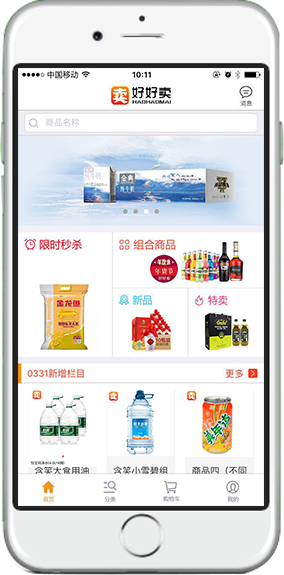
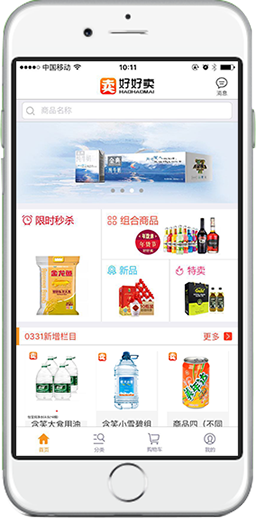
修改UI

diff --git a/public/stylesheets/base.css b/public/stylesheets/base.css
@@ -25,21 +25,22 @@ a:hover{color:#ffa63c;}
 
 /*--from now--*/
 .header{ background:#e83019; height:80px;}
-.wrapper{width:1000px;margin:0 auto;text-align:left; position:relative;}
+.wrapper{width:900px;margin:0 auto;text-align:left; position:relative;}
 .header .logo{ display:inline-block; background:url(../images/logo-small.png) no-repeat; width:159px; height:54px; text-indent:-9999px; margin-top:13px;}
 
-.wrapper .content{ width:538px; float:right; padding-top:22px;}
-.wrapper .phone{ float:left; padding-top:158px;}
+.wrapper .content{ width:538px; float:left; padding-top:52px; padding-left:70px;}
+.wrapper .phone{ float:left; padding-top:188px;}
 .content p{ text-align:center;}
 .download{ padding-top:44px;}
 .download a{ display:block; margin-top:18px; background:#fff; border-radius:6px; text-align:center; height:62px; line-height:62px; font-size:24px; color:#e83019;}
 a.ios span{ display:inline-block; background:url(../images/ios.png) no-repeat; width:36px; height:42px; vertical-align:middle; margin-right:10px;}
 a.android span{ display:inline-block; background:url(../images/android.png) no-repeat; width:39px; height:40px; vertical-align:middle; margin-right:10px;}
 
-.float-wechat{ position:fixed; right:30px; bottom:30px; color:#fff; font-size:25px;}
+.float-wechat{ position:fixed; right:30px; bottom:30px; color:#fff; font-size:16px;}
 .float-wechat .fl{ text-align:right; margin-right:12px;  margin-top:66px;}
 .float-wechat p{ padding-top:0px;}
-.float-wechat p.contact{ font-size:30px;}
+.float-wechat p img{ margin-top:10px;}
+.float-wechat p.contact{ font-size:20px;}
 .ie{_position: absolute;_clear: both;_top:expression(eval(document.compatMode && document.compatMode=='CSS1Compat') ? documentElement.scrollTop +(documentElement.clientHeight-this.clientHeight) - 20 :document.body.scrollTop +(document.body.clientHeight-this.clientHeight) - 20);}
 
 
